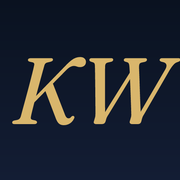
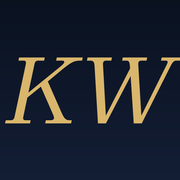
feat: set the display serif in zodiak, closer to domaine
- fraunces read too soft for the brief; zodiak carries the sharp
  didone glamour the domaine reference asked for
- the ITF EULA forbids committing the binaries to a public repo:
  scripts/fetch-fonts.ts pins them by sha256 into gitignored
  src/lib/fonts/files, chained before dev and build
- og headline budgets tightened to 19/23/27/32 (zodiak sets ~10%
  wider; satori was mid-line wrapping and orphaning words)
- icons regenerated; colophon, readme, llms.txt, humans.txt follow

Changed region(s): [[0.0278, 0.3056, 1.0, 0.6944]]

diff --git a/src/lib/server/og.ts b/src/lib/server/og.ts
@@ -21,9 +21,7 @@ function loadFont(...candidates: string[]): Buffer | null {
 const plexRegular = loadFont(
 	join(ROOT, 'node_modules/@fontsource/ibm-plex-sans/files/ibm-plex-sans-latin-400-normal.woff')
 );
-const frauncesItalic = loadFont(
-	join(ROOT, 'node_modules/@fontsource/fraunces/files/fraunces-latin-400-italic.woff')
-);
+const zodiakItalic = loadFont(join(ROOT, 'src/lib/fonts/files/zodiak-400-italic.woff'));
 
 // eslint-disable-next-line @typescript-eslint/no-explicit-any
 type Node = any;
@@ -65,7 +63,7 @@ export type OgCard = {
 	palette: OgPalette;
 	/** small uppercase line above the headline */
 	eyebrow?: string;
-	/** the big Fraunces italic lines */
+	/** the big Zodiak italic lines */
 	headline: string[];
 	/** normal-weight line under the headline */
 	sub?: string;
@@ -102,7 +100,7 @@ export async function renderOgPng(card: OgCard): Promise<Uint8Array<ArrayBuffer>
 				{
 					style: {
 						display: 'flex',
-						fontFamily: '"Fraunces", serif',
+						fontFamily: '"Zodiak", serif',
 						fontStyle: 'italic',
 						fontSize: '56px',
 						color: c.accent,
@@ -143,7 +141,7 @@ export async function renderOgPng(card: OgCard): Promise<Uint8Array<ArrayBuffer>
 					style: {
 						display: 'flex',
 						flexDirection: 'column',
-						fontFamily: '"Fraunces", serif',
+						fontFamily: '"Zodiak", serif',
 						fontStyle: 'italic',
 						fontSize: `${size}px`,
 						lineHeight: 1.08,
@@ -184,10 +182,10 @@ export async function renderOgPng(card: OgCard): Promise<Uint8Array<ArrayBuffer>
 	const fonts: { name: string; data: Buffer; weight: 400; style: 'normal' | 'italic' }[] = [];
 	if (plexRegular)
 		fonts.push({ name: 'IBM Plex Sans', data: plexRegular, weight: 400, style: 'normal' });
-	if (frauncesItalic)
+	if (zodiakItalic)
 		fonts.push({
-			name: 'Fraunces',
-			data: frauncesItalic,
+			name: 'Zodiak',
+			data: zodiakItalic,
 			weight: 400,
 			style: 'italic'
 		});
@@ -199,10 +197,11 @@ export async function renderOgPng(card: OgCard): Promise<Uint8Array<ArrayBuffer>
 /** Break a title into 1–3 lines that fit the card, and pick a size. */
 export function layoutHeadline(title: string): { lines: string[]; size: number } {
 	const size = title.length > 70 ? 60 : title.length > 45 ? 68 : title.length > 26 ? 80 : 96;
-	// Rough character budget per line at each size (Fraunces italic,
-	// 1000px box). Measured 2026-08-06: title-case lines fit ~22/26/31/35,
-	// so EB Garamond's budgets carry over unchanged.
-	const budget = size >= 96 ? 21 : size >= 80 ? 26 : size >= 68 ? 30 : 35;
+	// Rough character budget per line at each size (Zodiak italic,
+	// 1000px box). Measured 2026-08-06 from rendered cards: Zodiak sets
+	// ~10% wider than Fraunces (22 title-case chars ≈ 930px at size 80),
+	// so Fraunces' 21/26/30/35 budgets shrink to 19/23/27/32.
+	const budget = size >= 96 ? 19 : size >= 80 ? 23 : size >= 68 ? 27 : 32;
 
 	const words = title.split(' ');
 	const lines: string[] = [];

diff --git a/scripts/fetch-fonts.ts b/scripts/fetch-fonts.ts
@@ -1,0 +1,50 @@
+#!/usr/bin/env bun
+/**
+ * Fetch the Zodiak web fonts into src/lib/fonts/files/ (gitignored).
+ * Zodiak is free (Fontshare, Indian Type Foundry) but its EULA forbids
+ * redistribution, including "uploading them in a public server" — so the
+ * binaries stay out of this public repo and are pinned here by
+ * content-addressed CDN URL + sha256 instead, fetched before dev/build.
+ * The .woff (v1) italic exists only for satori (og.ts and
+ * scripts/generate-icons.ts), which reads neither woff2 nor variable fonts.
+ */
+import path from 'node:path';
+
+const DIR = path.resolve('src/lib/fonts/files');
+
+const FILES = [
+	{
+		name: 'zodiak-400-normal.woff2',
+		url: 'https://cdn.fontshare.com/wf/ECUEQQ5BLZLFJS3PPLWOEEVS7SQONQMH/WNTXEMDDVWUVWDURRKDXCJC6G7TMP277/TBWKTFSYABV4KN4GNIJMAOQUOTYBUWB3.woff2',
[1 lines of base64/hex data omitted]
+	},
+	{
+		name: 'zodiak-400-italic.woff2',
+		url: 'https://cdn.fontshare.com/wf/YFLZBMMI3DYRSZHBNXVNB72OCINBINIT/AJUISU4RPSUOUSQPHGNMFKZ4M6TTQGWF/HUKQ64PZXOIVT5LHOHNUDCYHXBK5OR45.woff2',
[1 lines of base64/hex data omitted]
+	},
+	{
+		name: 'zodiak-400-italic.woff',
+		url: 'https://cdn.fontshare.com/wf/YFLZBMMI3DYRSZHBNXVNB72OCINBINIT/AJUISU4RPSUOUSQPHGNMFKZ4M6TTQGWF/HUKQ64PZXOIVT5LHOHNUDCYHXBK5OR45.woff',
[1 lines of base64/hex data omitted]
+	}
+];
+
+const sha256 = (data: ArrayBuffer) => new Bun.CryptoHasher('sha256').update(data).digest('hex');
+
+for (const file of FILES) {
+	const dest = path.join(DIR, file.name);
+	const existing = Bun.file(dest);
+	if ((await existing.exists()) && sha256(await existing.arrayBuffer()) === file.sha256) continue;
+
+	const res = await fetch(file.url);
+	if (!res.ok) throw new Error(`${file.name}: HTTP ${res.status} from ${file.url}`);
+	const data = await res.arrayBuffer();
+	const hash = sha256(data);
+	if (hash !== file.sha256)
+		throw new Error(
+			`${file.name}: sha256 mismatch (got ${hash}); Fontshare re-released Zodiak, re-pin the URLs and hashes`
+		);
+	await Bun.write(dest, data);
+	console.log(`${file.name} (${(data.byteLength / 1024).toFixed(0)} KB)`);
+}

diff --git a/scripts/generate-icons.ts b/scripts/generate-icons.ts
@@ -3,9 +3,10 @@
  * Generate the PNG icons that SVG can't cover:
  *   - apple-touch-icon.png (180×180, iOS home screen ignores SVG)
  *   - icon-192.png / icon-512.png (web app manifest)
- * The mark is the site wordmark — "KW" in Fraunces italic gold on
+ * The mark is the site wordmark — "KW" in Zodiak italic gold on
  * the home room's night blue — matching the header and the OG cards.
  * Run after changing branding: bun run scripts/generate-icons.ts
+ * (needs the font files: bun scripts/fetch-fonts.ts first).
  */
 import { readFileSync } from 'node:fs';
 import path from 'node:path';
@@ -15,9 +16,7 @@ import sharp from 'sharp';
 
 const OUT = path.resolve('static');
 
-const fraunces = readFileSync(
-	path.resolve('node_modules/@fontsource/fraunces/files/fraunces-latin-400-italic.woff')
-);
+const zodiak = readFileSync(path.resolve('src/lib/fonts/files/zodiak-400-italic.woff'));
 
 const node = {
 	type: 'div',
@@ -29,7 +28,7 @@ const node = {
 			alignItems: 'center',
 			justifyContent: 'center',
 			background: 'linear-gradient(180deg, #0a1220 0%, #131d34 100%)',
-			fontFamily: '"Fraunces", serif',
+			fontFamily: '"Zodiak", serif',
 			fontStyle: 'italic',
 			fontSize: '268px',
 			color: '#d9b66c'
@@ -41,7 +40,7 @@ const node = {
 const svg = await satori(node, {
 	width: 512,
 	height: 512,
-	fonts: [{ name: 'Fraunces', data: fraunces, weight: 400, style: 'italic' }]
+	fonts: [{ name: 'Zodiak', data: zodiak, weight: 400, style: 'italic' }]
 });
 const master = new Resvg(svg).render().asPng();
 

diff --git a/src/app.css b/src/app.css
@@ -117,15 +117,15 @@
 /* ---------- Typography stack ----------
    Two families, one role each:
    · body    = IBM Plex Sans (sans: labels, notes, smallcaps, UI)
-   · display = Fraunces      (serif: headings, dropcaps, logo, buttons, essay prose)
+   · display = Zodiak        (serif: headings, dropcaps, logo, buttons, essay prose)
    One weight per family (400); Plex 600 only for smallcaps labels.
-   Fraunces is variable (wght + opsz): optical sizing is automatic, so
-   prose gets the sturdy text cut and big headings the high-contrast
-   display cut. SOFT/WONK stay at their 0 defaults. */
+   Zodiak is a single sharp high-contrast cut (no optical axis): the
+   same design sets the big italic headings and the essay prose, so any
+   size change should be re-checked against the dark rooms' hairlines. */
 :root {
 	--font-body:
 		'IBM Plex Sans', -apple-system, BlinkMacSystemFont, 'Segoe UI', Roboto, system-ui, sans-serif;
-	--font-display: 'Fraunces Variable', Georgia, 'Times New Roman', ui-serif, serif;
+	--font-display: 'Zodiak', Georgia, 'Times New Roman', ui-serif, serif;
 }
 
 @theme inline {

diff --git a/src/routes/+layout.svelte b/src/routes/+layout.svelte
@@ -3,8 +3,7 @@
 	import '@fontsource/ibm-plex-sans/400.css';
 	import '@fontsource/ibm-plex-sans/400-italic.css';
 	import '@fontsource/ibm-plex-sans/600.css';
-	import '@fontsource-variable/fraunces/standard.css';
-	import '@fontsource-variable/fraunces/standard-italic.css';
+	import '$lib/fonts/zodiak.css';
 
 	import { page } from '$app/stores';
 	import { onNavigate } from '$app/navigation';
@@ -309,7 +308,7 @@
 						{site.name} <span lang="ar" class="not-italic">{site.nameArabic}</span> ·
 						{site.role},&nbsp;{site.location.city},&nbsp;{site.location.country}
 					</div>
-					<div class="smallcaps">mmxxvi · set in fraunces &amp; ibm plex</div>
+					<div class="smallcaps">mmxxvi · set in zodiak &amp; ibm plex</div>
 				</div>
 				<nav
 					aria-label="Elsewhere"

diff --git a/src/lib/fonts/zodiak.css b/src/lib/fonts/zodiak.css
@@ -1,0 +1,18 @@
+/* Zodiak, the display serif — self-hosted under the ITF free font EULA,
+   which forbids committing the binaries to a public repo: the files/
+   dir is gitignored and filled by scripts/fetch-fonts.ts. */
+@font-face {
+	font-family: 'Zodiak';
+	font-style: normal;
+	font-display: swap;
+	font-weight: 400;
+	src: url('./files/zodiak-400-normal.woff2') format('woff2');
+}
+
+@font-face {
+	font-family: 'Zodiak';
+	font-style: italic;
+	font-display: swap;
+	font-weight: 400;
+	src: url('./files/zodiak-400-italic.woff2') format('woff2');
+}

diff --git a/README.md b/README.md
@@ -23,16 +23,16 @@ Almost everything is **prerendered to static HTML** at build time. The single ex
 
 ## Tech stack
 
-| Concern      | Choice                                                                                                                                               |
-| ------------ | ---------------------------------------------------------------------------------------------------------------------------------------------------- |
-| Framework    | [SvelteKit 2](https://svelte.dev/docs/kit) with Svelte 5 runes                                                                                       |
-| Styling      | [Tailwind CSS 4](https://tailwindcss.com) + `@tailwindcss/typography`                                                                                |
-| Content      | [mdsvex](https://mdsvex.pngwn.io) (`.svx`) for writing                                                                                               |
-| Language     | TypeScript                                                                                                                                           |
-| OG images    | [satori](https://github.com/vercel/satori) + resvg (generated at build)                                                                              |
-| Fonts        | Self-hosted [Fraunces](https://fonts.google.com/specimen/Fraunces) + [IBM Plex Sans](https://fonts.google.com/specimen/IBM+Plex+Sans) via Fontsource |
-| Runtime / PM | [Bun](https://bun.sh)                                                                                                                                |
-| Hosting      | [Cloudflare Pages](https://pages.cloudflare.com) (`@sveltejs/adapter-cloudflare`)                                                                    |
+| Concern      | Choice                                                                                                                                                                               |
+| ------------ | ------------------------------------------------------------------------------------------------------------------------------------------------------------------------------------ |
+| Framework    | [SvelteKit 2](https://svelte.dev/docs/kit) with Svelte 5 runes                                                                                                                       |
+| Styling      | [Tailwind CSS 4](https://tailwindcss.com) + `@tailwindcss/typography`                                                                                                                |
+| Content      | [mdsvex](https://mdsvex.pngwn.io) (`.svx`) for writing                                                                                                                               |
+| Language     | TypeScript                                                                                                                                                                           |
+| OG images    | [satori](https://github.com/vercel/satori) + resvg (generated at build)                                                                                                              |
+| Fonts        | Self-hosted [Zodiak](https://www.fontshare.com/fonts/zodiak) (fetched by `scripts/fetch-fonts.ts`) + [IBM Plex Sans](https://fonts.google.com/specimen/IBM+Plex+Sans) via Fontsource |
+| Runtime / PM | [Bun](https://bun.sh)                                                                                                                                                                |
+| Hosting      | [Cloudflare Pages](https://pages.cloudflare.com) (`@sveltejs/adapter-cloudflare`)                                                                                                    |
 
 ## Getting started
 
